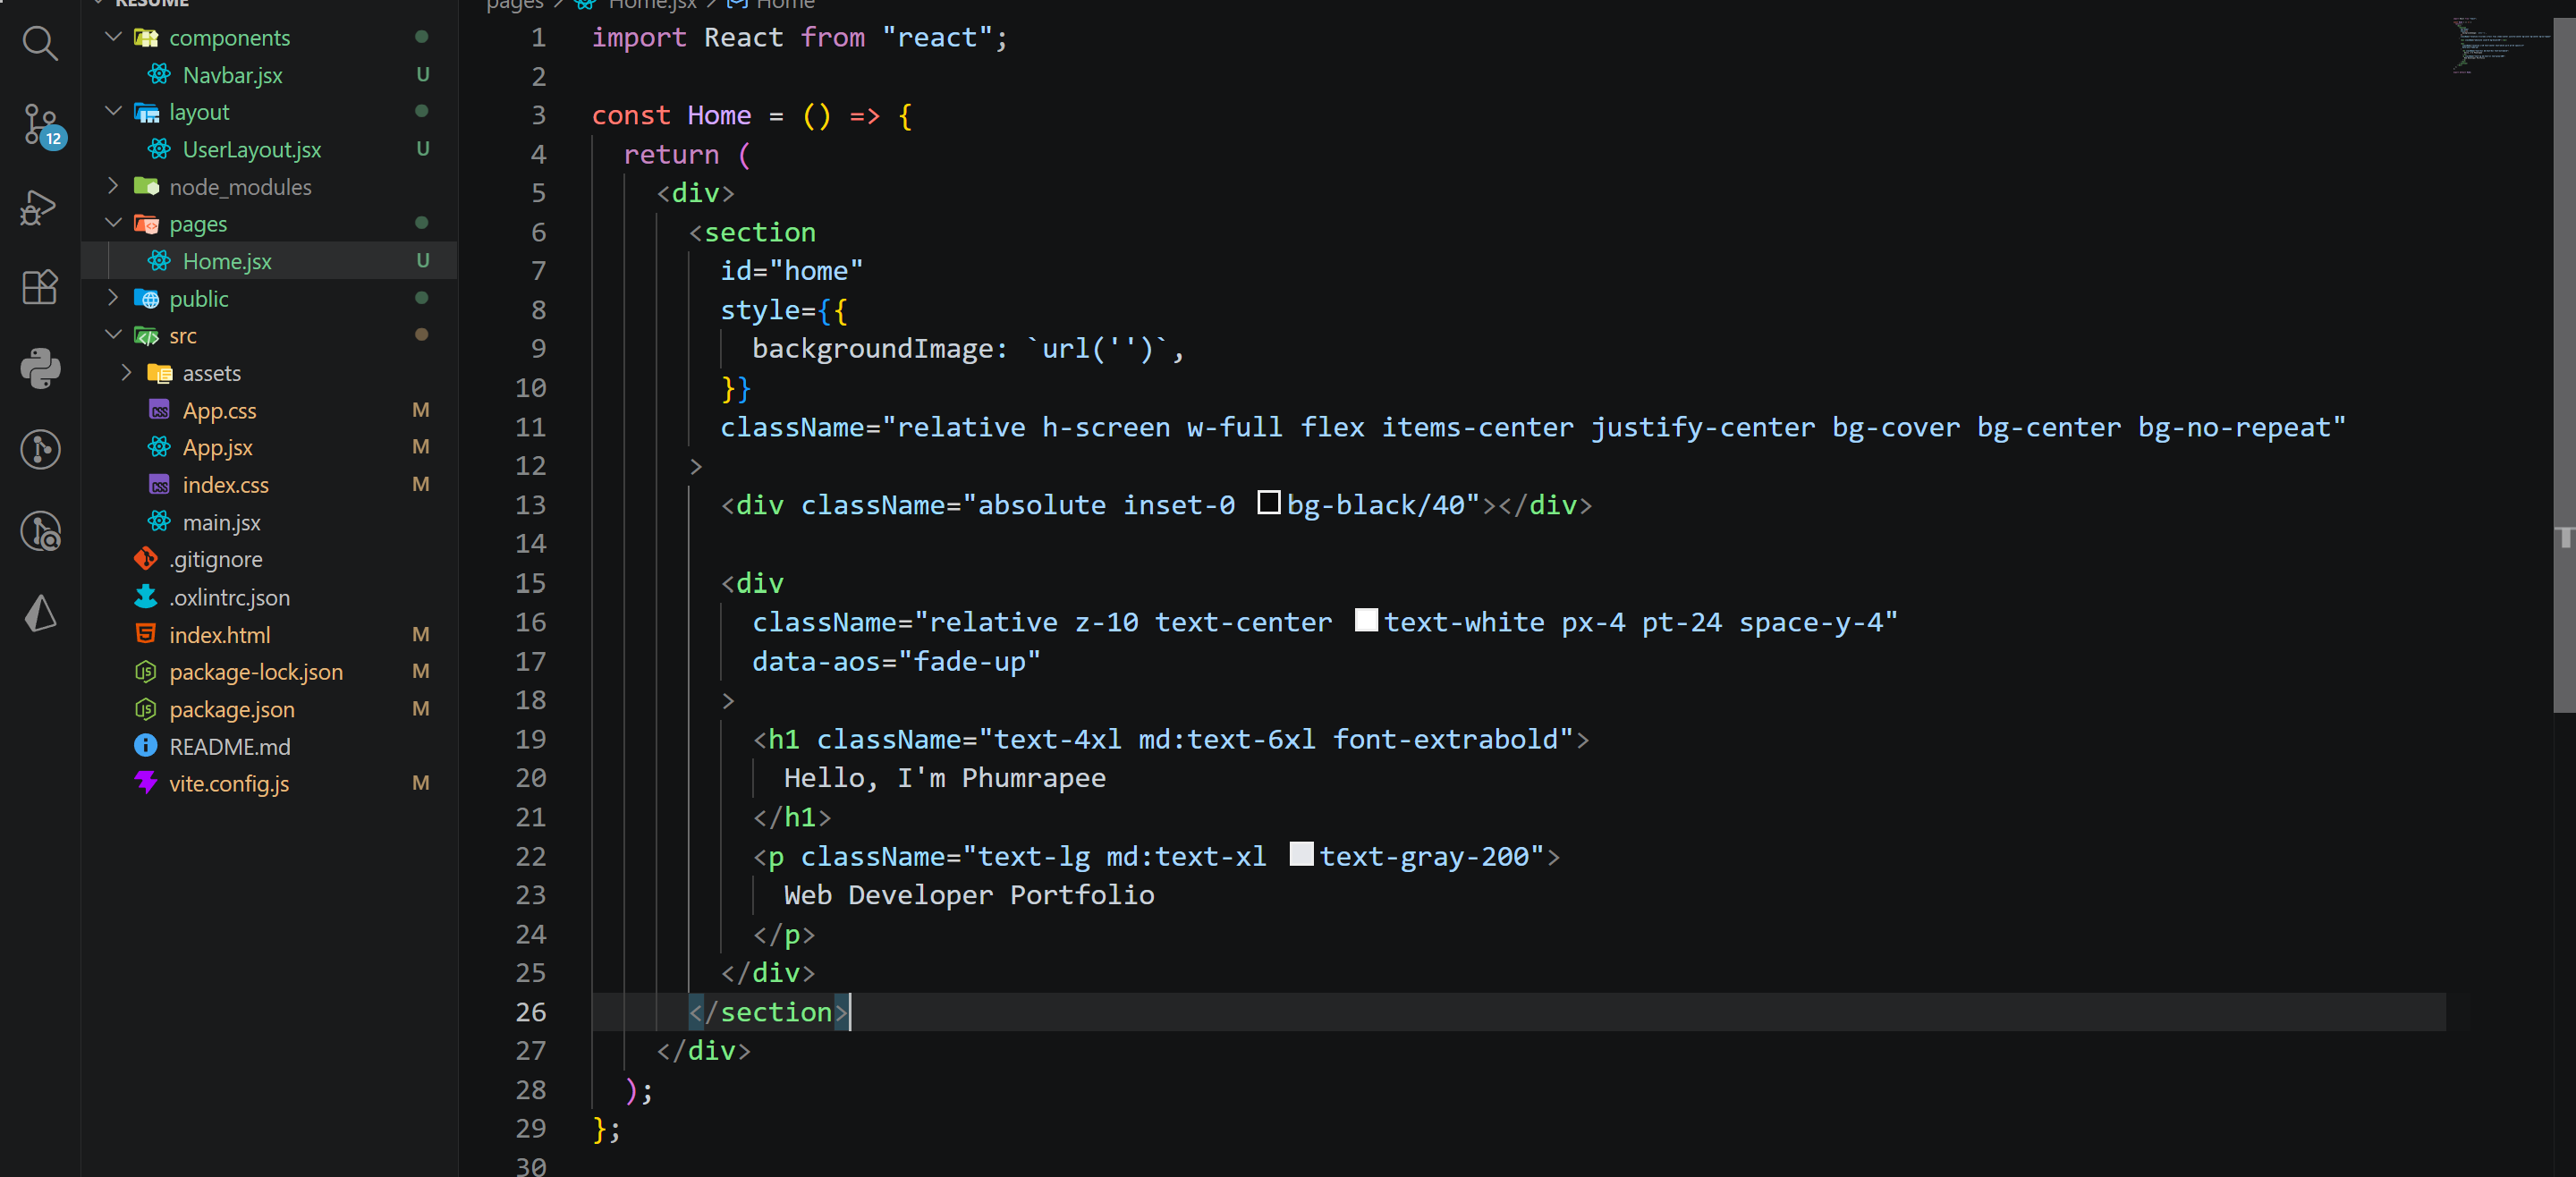
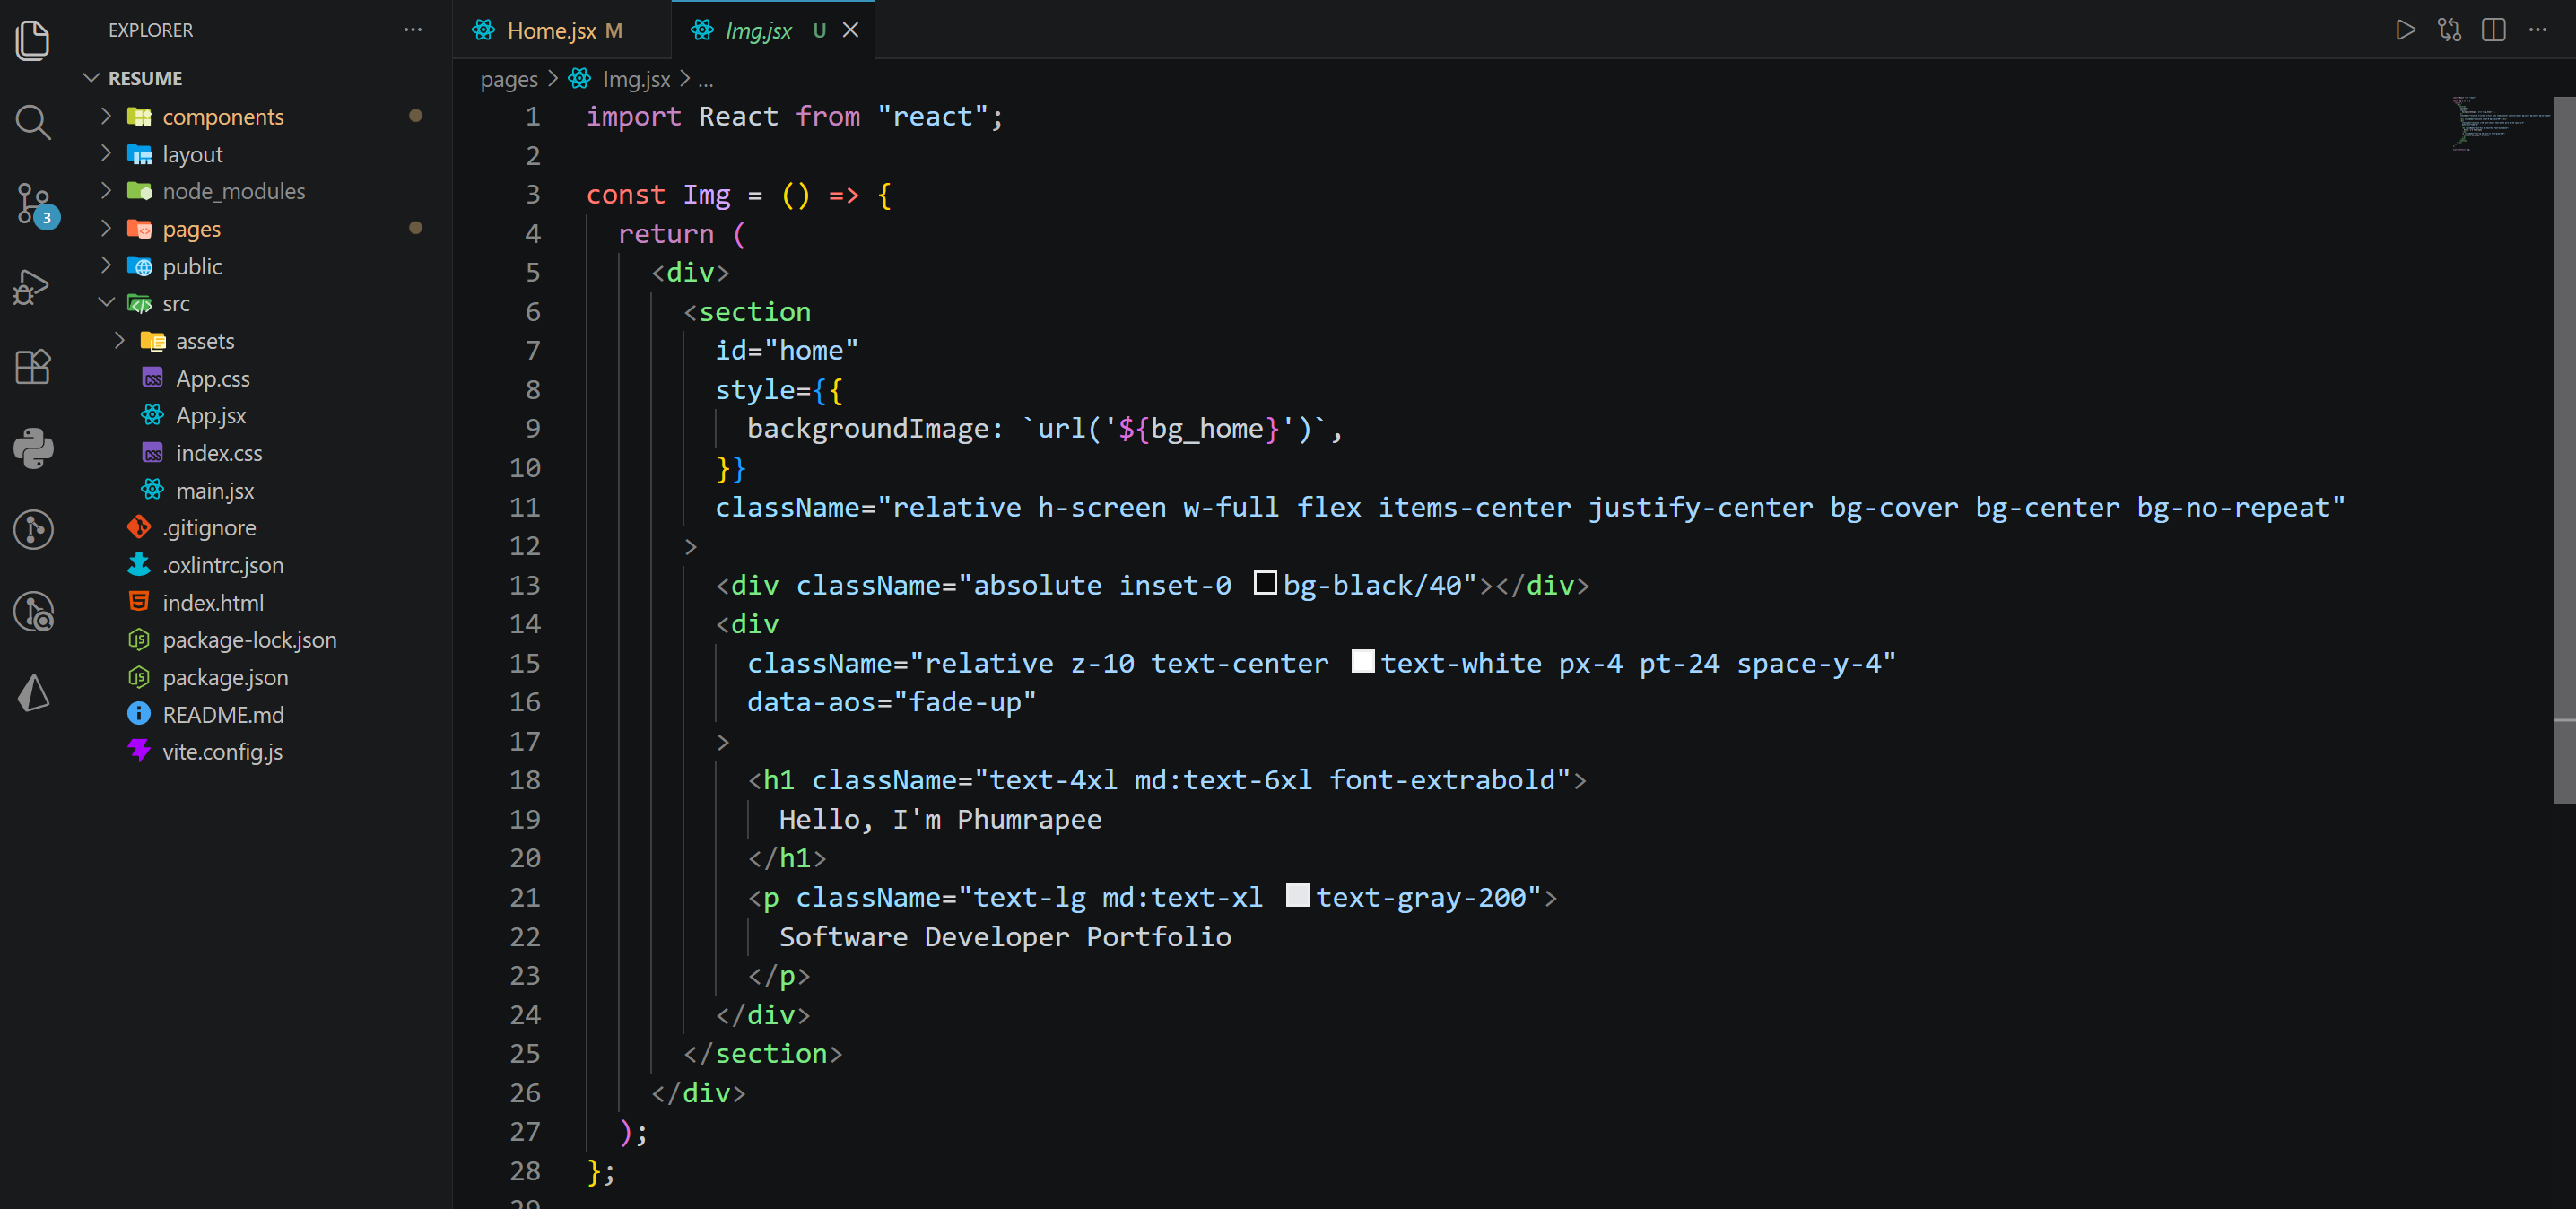
test home  section

diff --git a/pages/Home.jsx b/pages/Home.jsx
@@ -9,10 +9,9 @@ const Home = () => {
         style={{
           backgroundImage: `url('${bg_home}')`,
         }}
-        className="relative h-screen w-full flex items-start justify-center bg-cover bg-center bg-no-repeat"
+        className="relative min-h-screen md:h-screen w-full flex items-start justify-center bg-cover bg-center bg-no-repeat"
       >
         <div className="absolute inset-0 bg-black/60"></div>
-
         <div className="relative z-10 w-full max-w-6xl mx-auto px-6 md:px-12 pt-46">
           <div className="grid grid-cols-1 md:grid-cols-2 gap-12 items-center">
             {/* text */}
@@ -30,7 +29,9 @@ const Home = () => {
               </h1>
 
               <p className="text-sm sm:text-base md:text-lg text-gray-100 font-normal leading-relaxed max-w-xl mx-auto md:mx-0 bg-black px-4 py-2 rounded-lg">
-                Web Developer & Mobile Developer focused on 
+                Software Developer focused on building
+                high‑quality applications, improving system performance, and
+                ensuring reliability through effective software testing.
               </p>
               <div className="flex flex-col sm:flex-row items-center justify-center md:justify-start gap-4 pt-4">
                 <a
@@ -53,13 +54,24 @@ const Home = () => {
               <div
                 data-aos="fade-left"
                 data-aos-delay="200"
-                className="relative w-64 h-64 md:w-80 md:h-80 overflow-hidden rounded-xl border-4 border-indigo/20 shadow-2xl shadow-indigo-500/30 backdrop-blur-sm hover:scale-105 transition-transform duration-500"
+                className="relative w-64 h-64 md:w-80 md:h-80 rounded-2xl border border-white/10 shadow-xl shadow-indigo-500/5 overflow-hidden transition-all duration-500 group bg-slate-950"
               >
-                <img
-                  src="./public/img/profile02.jpg"
-                  alt="Phumrapee Profile"
-                  className="w-full h-full object-cover"
-                />
+                <div className="w-full h-full">
+                  <img
+                    src="./public/img/profile02.JPG"
+                    alt="Phumrapee Profile"
+                    className="w-full h-full object-cover group transition-transform duration-700"
+                  />
+                </div>
+
+                <div className="absolute bottom-0 left-0 right-0 p-4 bg-slate-950/70 backdrop-blur-md border-t border-white/10 z-20 flex flex-col items-center justify-center">
+                  {/* <span className="text-base text-indigo-400 mb-1 drop-shadow-sm">
+                    Email: [email redacted]
+                  </span> */}
+                  <p className="text-base text-gray-200 font-medium">
+                    Software Developer | Web, Mobile & Testing
+                  </p>
+                </div>
               </div>
             </div>
           </div>

diff --git a/components/Navbar.jsx b/components/Navbar.jsx
@@ -10,13 +10,15 @@ const Navbar = () => {
     { id: "#education", label: "Education" },
     { id: "#skills", label: "Skills" },
   ];
+  const nav_design = 
+  "fixed top-4 left-0 right-0 z-50 mx-auto max-w-5xl w-[calc(100%-2rem)] rounded-2xl md:rounded-full bg-white/75 backdrop-blur-md shadow-2xl shadow-indigo-500/10 px-6 md:px-8 transition-all duration-300"
   const design_menu =
-    "px-4 py-2 rounded-full font-medium text-sm text-gray-600 hover:text-indigo-600 hover:bg-gray-50/80 transition-all duration-200";
+    "px-4 py-2 rounded-full font-medium text-base text-gray-800 hover:text-white hover:bg-black transition-all duration-200"
   const design_menu_mobile =
-    "block px-4 py-2.5 rounded-2xl text-base font-medium text-gray-600 hover:text-indigo-600 hover:bg-gray-50 active:bg-indigo-50/50 transition-all duration-200";
+    "block px-4 py-2.5 rounded-2xl text-base font-medium text-gray-800 hover:text-white hover:bg-black active:bg-indigo-50/50 transition-all duration-200"
 
   return (
-    <nav className="fixed top-4 left-0 right-0 z-50 mx-auto max-w-5xl w-[calc(100%-2rem)] rounded-3xl md:rounded-full bg-white/80 backdrop-blur-md border border-gray-100/50 shadow-md px-6 md:px-8 transition-all duration-300">
+    <nav className={nav_design}>
       <div className="flex justify-between h-16 items-center">
         {/* logo */}
         <div className="flex shrink-0">
@@ -73,7 +75,6 @@ const Navbar = () => {
           </button>
         </div>
       </div>
-
       {/* Mobile Dropdown */}
       <div
         className={`${isOpen ? "block" : "hidden"} md:hidden pb-4 pt-2 space-y-1 border-t border-gray-100/50 mt-1`}